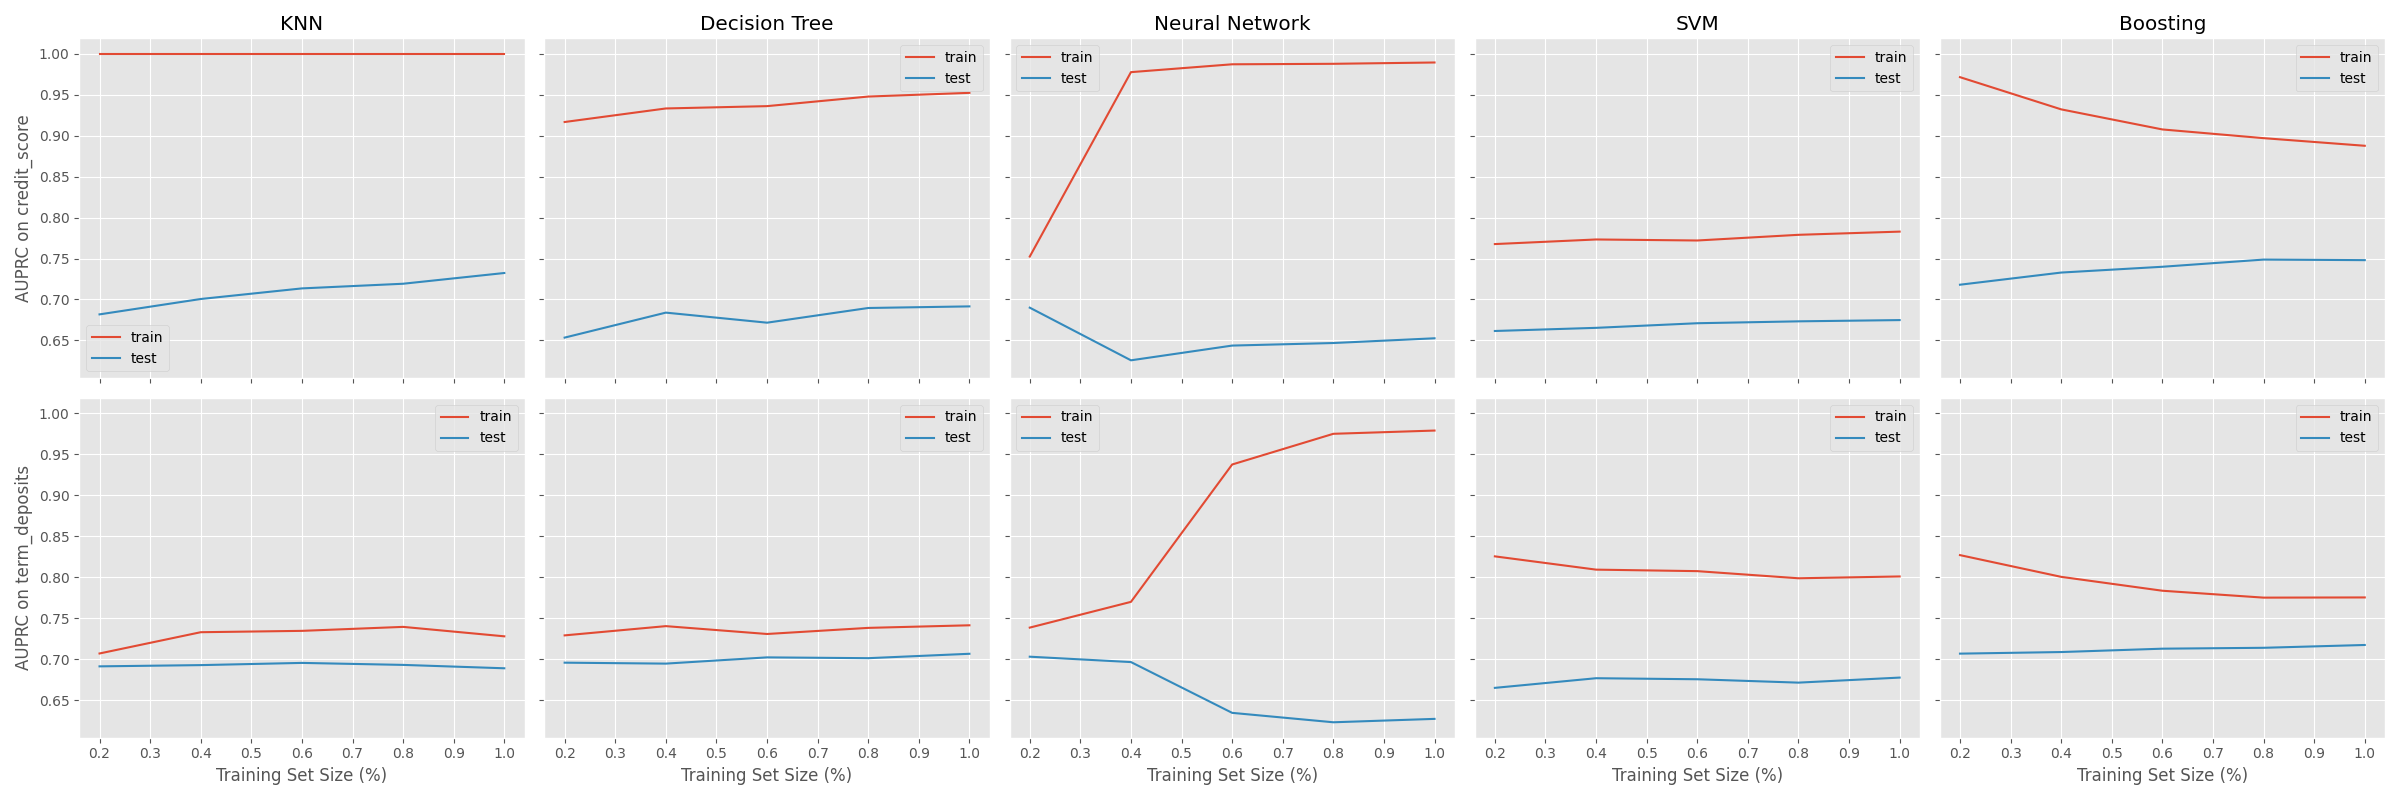
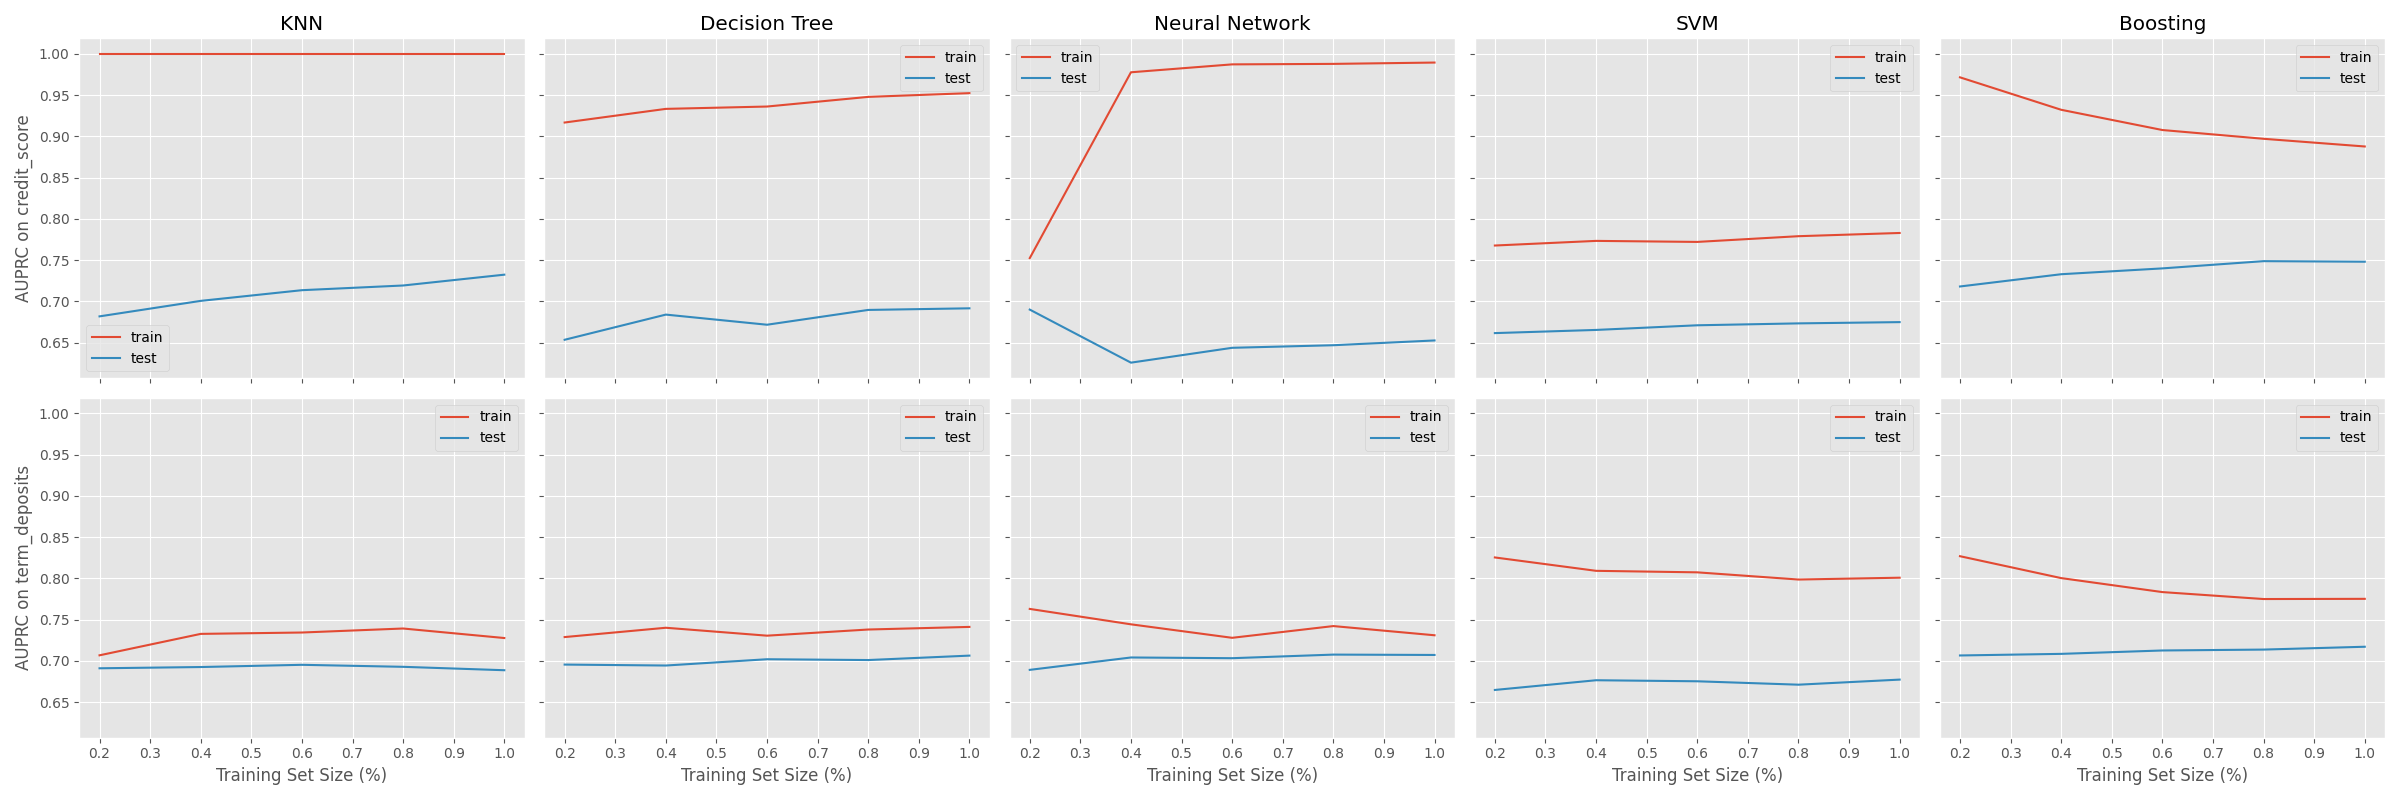
Fix mlp params

diff --git a/mlp.py b/mlp.py
@@ -132,13 +132,16 @@ def best(dataset):
             activation="tanh",
             hidden_layer_sizes=(512, 256, 128),
             alpha=0.1,
+            batch_size=64,
         )
     else:
         return MLPClassifier(
             early_stopping=True,
             activation="relu",
-            hidden_layer_sizes=(128, 64),
-            batch_size=32,
+            hidden_layer_sizes=(256, 128),
+            alpha=0.1,
+            batch_size=64,
+            random_state=0,
         )
 
 
